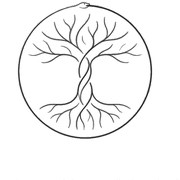
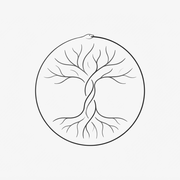
Use original unmodified logo_final_black, cache bust v3
Amp-Thread-ID: https://ampcode.com/threads/T-019de8c1-ab70-761d-863a-b3d1f1df200f

diff --git a/index.html b/index.html
@@ -438,7 +438,7 @@
 <!-- ==================== NAV ==================== -->
 <nav class="nav">
     <div class="nav-inner">
-        <a href="/" class="nav-brand"><img src="/img/logo.png?v=2" alt="Restoring Baseline" style="height:28px;vertical-align:middle;margin-right:8px;">Restoring Baseline</a>
+        <a href="/" class="nav-brand"><img src="/img/logo.png?v=3" alt="Restoring Baseline" style="height:28px;vertical-align:middle;margin-right:8px;">Restoring Baseline</a>
         <div class="nav-links">
             <a href="/story">My Story</a>
             <a href="https://www.skool.com/restoring-baseline-4494">Community</a>
@@ -453,7 +453,7 @@
 <!-- ==================== HERO ==================== -->
 <div class="hero">
     <div class="container">
-        <img src="/img/logo.png?v=2" alt="Restoring Baseline" style="height:64px;margin-bottom:20px;">
+        <img src="/img/logo.png?v=3" alt="Restoring Baseline" style="height:64px;margin-bottom:20px;">
         <h1>You know exactly what to do and you still can't make yourself do it.</h1>
         <p class="subtitle">Neuroscience meets ancient wisdom. For people ready to feel alive, and enjoy it.</p>
         <div class="hero-ctas">

diff --git a/coaching.html b/coaching.html
@@ -337,7 +337,7 @@
 <!-- ==================== NAV ==================== -->
 <nav class="nav">
     <div class="nav-inner">
-        <a href="/" class="nav-brand"><img src="/img/logo.png?v=2" alt="Restoring Baseline" style="height:28px;vertical-align:middle;margin-right:8px;">Restoring Baseline</a>
+        <a href="/" class="nav-brand"><img src="/img/logo.png?v=3" alt="Restoring Baseline" style="height:28px;vertical-align:middle;margin-right:8px;">Restoring Baseline</a>
         <div class="nav-links">
             <a href="/story">My Story</a>
             <a href="https://www.skool.com/restoring-baseline-4494">Community</a>

diff --git a/story.html b/story.html
@@ -163,7 +163,7 @@
 <!-- ==================== NAV ==================== -->
 <nav class="nav">
     <div class="nav-inner">
-        <a href="/" class="nav-brand"><img src="/img/logo.png?v=2" alt="Restoring Baseline" style="height:28px;vertical-align:middle;margin-right:8px;">Restoring Baseline</a>
+        <a href="/" class="nav-brand"><img src="/img/logo.png?v=3" alt="Restoring Baseline" style="height:28px;vertical-align:middle;margin-right:8px;">Restoring Baseline</a>
         <div class="nav-links">
             <a href="/story">My Story</a>
             <a href="https://www.skool.com/restoring-baseline-4494">Community</a>
